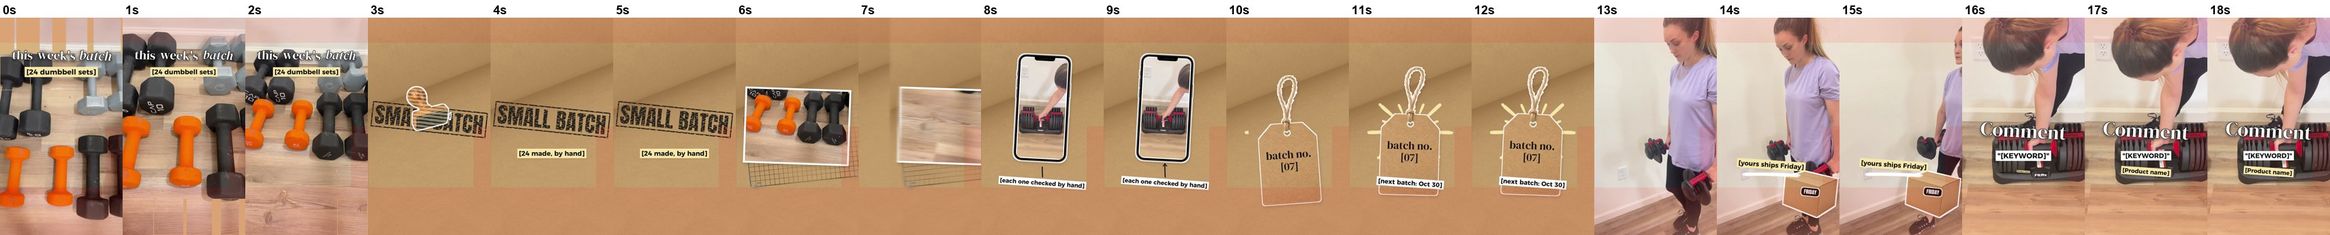
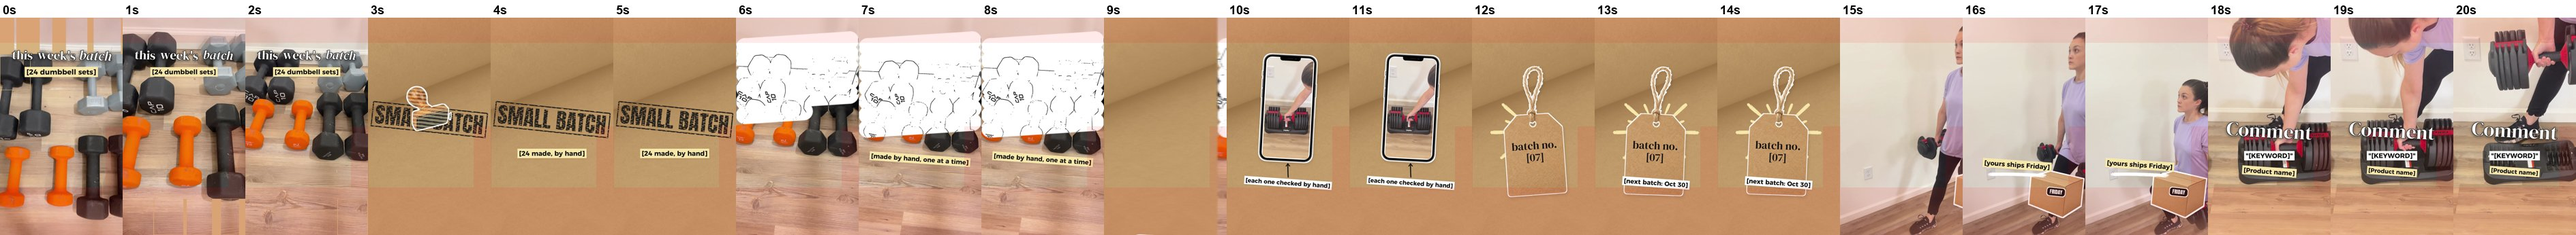
Reel Template Packs #21: real footage turning into a pencil drawing under white marker strokes (style board #14), play_extra.sketch_over(); moves table

diff --git a/automation/reel-template-pack/build/motion_21.py b/automation/reel-template-pack/build/motion_21.py
@@ -33,7 +33,7 @@ INK, CRM = (24, 23, 22), (246, 241, 232); BUTTER = X.BUTTER                     
 X.use_type(BUTTER, INK); X.enable_holds()
 DIR = '21-small-batch'
 PHONE = 'Graphite Smartphone With Green Screen-38.png'
-HOLDS = [(1.55, 1.0), (3.35, 1.1), (4.95, 0.3), (6.55, 1.0), (8.15, 1.5), (9.75, 1.0), (12.45, 0.4)]
+HOLDS = [(1.55, 1.0), (3.35, 1.1), (4.95, 2.2), (6.55, 1.0), (8.15, 1.5), (9.75, 1.0), (12.45, 0.4)]
 
 def tag_with(text, w, px):
     t = P.raw_cut('Blank kraft hang tag with twine-116.png', w).copy()
@@ -58,7 +58,7 @@ def setup():
     g['box'] = P.thing('Plain kraft cardboard shipping box-230.png', 460, None, None, label=P.sticker('FRIDAY', 44, INK), label_at=(0.5, 0.45)) \
         if (S.E.PACK / 'build' / '.cache' / 'hq' / 'Plain kraft cardboard shipping box-230.png').exists() else P.thing('Unmarked cardboard shipping box-110.png', 460, None, None, label=P.sticker('FRIDAY', 44, INK), label_at=(0.5, 0.45))
     g['week'] = P.caption("this week's batch", 120, BUTTER); g['count'] = X.hl('[24 dumbbell sets]', 64, BUTTER)
-    g['made'] = X.hl('[24 made, by hand]', 64, BUTTER)
+    g['made'] = X.hl('[24 made, by hand]', 64, BUTTER); g['byhand'] = X.hl('[made by hand, one at a time]', 60, BUTTER)
     g['checked'] = X.hl('[each one checked by hand]', 56, WHITE); g['arrow'] = doodle('arrow', 0, 130, INK)
     g['next'] = X.hl('[next batch: Oct 30]', 60, WHITE); g['burst'] = doodle('burst', 2, 760, BUTTER)
     g['ships'] = X.hl('[yours ships Friday]', 62, BUTTER); g['under'] = doodle('under', 0, 520, WHITE)
@@ -83,9 +83,12 @@ def stage2(g, t):
     return im
 
 def stage3(g, t):
-    im = g['kraft'].copy(); put(im, g['rack'], (620, 1130), 1, 6); ww, wh = 900, 640
-    v = g['c']['pass'].at(t - 3.6, (ww, int(ww * 16 / 9))); pan = ease(seg(t, 3.6, 5.0)); y = int(pan * (v.height - wh))
-    put(im, X.clip_card(v.crop((0, y, ww, y + wh)), ww, wh, 16, -2), (540, lerp(2400, 960, ease(seg(t, 3.6, 3.9)))))
+    """The slow pass along the batch; white marker strokes paint across the top and turn the footage into a pencil
+    drawing (her style board #14: real footage into a drawing = "made by hand / back to basics")."""
+    im = g['c']['pass'].at(t - 3.6)
+    strokes = [((80, 260 + i * 120), (1000, 200 + i * 120)) for i in range(7)]
+    im = X.sketch_over(im, ease(seg(t, 3.8, 4.6)), strokes, 160)
+    P.say(im, g['byhand'], t, 4.5, (540, 1250), -2)
     return im
 
 def stage4(g, t):

diff --git a/automation/reel-template-pack/build/play_extra.py b/automation/reel-template-pack/build/play_extra.py
@@ -218,3 +218,28 @@ def sparkles(img, t, t0, pts, color, size=110, step=0.1):
         if t < ti: continue
         k = _bo(seg(t, ti, ti + 0.25), 2.2) * (0.8 + 0.25 * math.sin((t - ti) * 7 + i * 1.7))
         _put(img, sp, (x, y), k * (0.7 + 0.3 * (i % 3) / 2), 15 * math.sin(t * 2 + i))
+
+# ---- real footage into a drawing (style board #14, 2026-10-19) ----------------------------------------------------------
+def pencil(im):
+    """A pencil sketch of a frame: colour-dodge of the greyscale over its blurred negative, on white paper."""
+    from PIL import ImageChops as _IC
+    sm = im.convert('RGB').filter(_IF.GaussianBlur(1.6)); e = None
+    for ch in sm.split():                                                     # edges on each colour channel, strongest wins
+        ec = ch.filter(_IF.FIND_EDGES); e = ec if e is None else _IC.lighter(e, ec)
+    e = e.point(lambda v: 0 if v < 14 else min(255, v * 3)).filter(_IF.MaxFilter(3))           # bold pencil lines
+    sk = ImageOps.invert(e).point(lambda v: 255 if v > 200 else int(v * 0.35))  # paper white, graphite lines
+    return Image.merge('RGB', (sk, sk, sk)).convert('RGBA')
+
+def brush_mask(u, strokes, width=150):
+    """White marker strokes painted one after another (u 0..1); strokes = [((x0, y0), (x1, y1))]."""
+    m = Image.new('L', (W, H), 0); d = ImageDraw.Draw(m); n = len(strokes)
+    for i, ((x0, y0), (x1, y1)) in enumerate(strokes):
+        k = clamp(u * n - i)
+        if k <= 0: break
+        xe, ye = lerp(x0, x1, k), lerp(y0, y1, k); d.line((x0, y0, xe, ye), fill=255, width=width)
+        for (cx, cy) in ((x0, y0), (xe, ye)): d.ellipse((cx - width / 2, cy - width / 2, cx + width / 2, cy + width / 2), fill=255)
+    return m.filter(_IF.GaussianBlur(2))
+
+def sketch_over(im, u, strokes, width=150):
+    """Footage turning into a drawing where the white strokes paint (her Big Ben reference)."""
+    m = brush_mask(u, strokes, width); out = im.copy(); out.paste(pencil(im), (0, 0), m); return out

diff --git a/automation/reel-template-pack/FRAMEWORK.md b/automation/reel-template-pack/FRAMEWORK.md
@@ -243,6 +243,7 @@ Log each use here when a template is approved.
 | Rubber stamp prints a word in rough ink | 22 (draft) | 22, 21 (drafts) |
 | Open card: words on the left panel, the clip in the right panel | 24 (draft) | 24 |
 | Boxing-ring bell rings each round; split-screen rounds; trophy | 25 (draft) | 25 |
+| Real footage turning into a pencil drawing where white marker strokes paint (style board #14) | 21 (draft) | 21 (draft; theme for how-it's-made / back to basics; up to 5) |
 | Device standing on the stage, its whole screen one video slot | 04 (draft) | 04, 05, 06, 07, 16, 18, 21, 24 (drafts: a basic, not a signature move) |
 
 ## The image library is shared (Mercedes, 2026-10-17)
